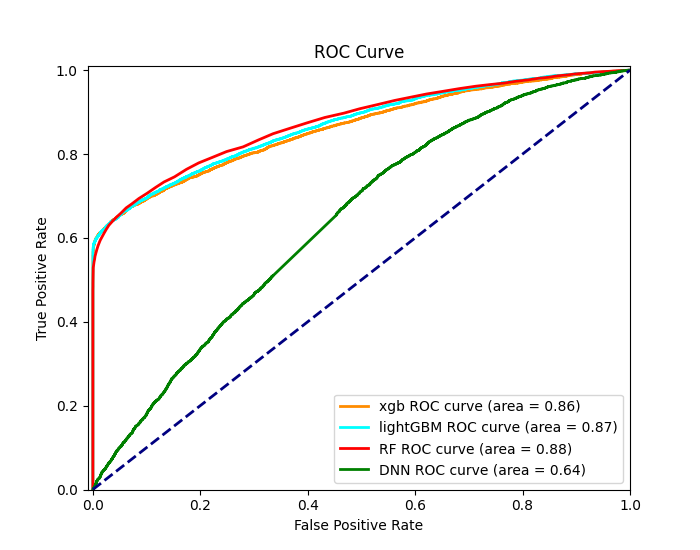
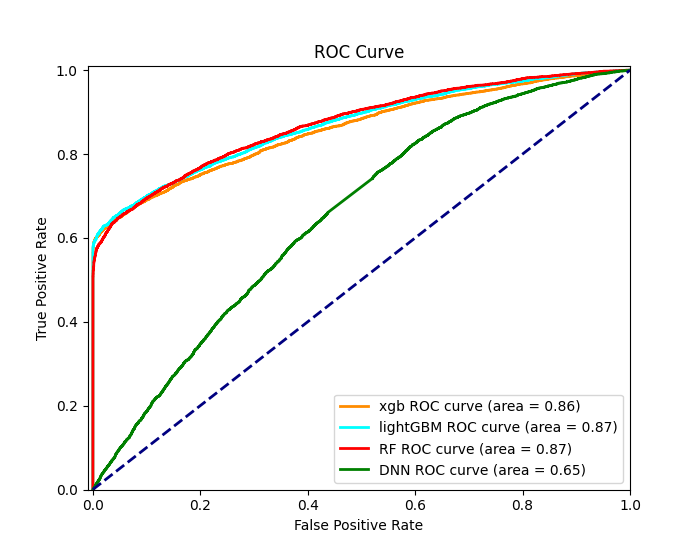
Update parameters

diff --git a/xgboost_churn.py b/xgboost_churn.py
@@ -12,6 +12,8 @@ import model_validation
 import numpy as np
 import pandas as pd
 from sklearn.metrics import roc_curve, auc
+import warnings
+warnings.filterwarnings("ignore")
 
 
 def xgboost_churn(X_train, y_train, X_test, y_test):
@@ -67,36 +69,36 @@ def xgboost_churn(X_train, y_train, X_test, y_test):
     for i in range(20):
         top_20_f.append(real_fea_names[importance_score_list[i][1]])
 
-    # explainer model training
-    params = {"objective": "binary:logistic", 'silent': 1, 'eval_metric': 'auc', 'base_score': 0.5, "lambda": lmda}
-    bst = xgb.train(params, dtrain, best_iteration)
-
-    # calculate xgboost probability
-    tree_lst = xgb_exp.model2table(bst, lmda=lmda)
-    leaf_lsts = bst.predict(dtrain, pred_leaf=True)
-    fea_logit = [[] for _ in range(len(real_fea_names))]
-    for i, leaf_lst in enumerate(leaf_lsts):
-        dist = xgb_exp.logit_contribution(tree_lst, leaf_lst)
-        for idx in range(len(real_fea_names)):
-            if 'f' + str(idx) in dist:
-                fea_logit[idx].append(-dist['f' + str(idx)])
-            else:
-                fea_logit[idx].append(0)
-
-    # explainer plot
-    fig = plt.figure(figsize=(30, 30))
-    fig.suptitle('Feature User Churn')
-    for i in range(len(top_20_f)):
-        fea = top_20_f[i]
-        idx = real_fea_names.index(fea)
-        fea_data = X_df[fea].values
-        ax = fig.add_subplot(5, 4, i + 1)
-        ax.set_xscale('log')
-        ax.set_xlim(min([i for i in fea_data if i > 0]), max(fea_data))
-        ax.scatter(fea_data, fea_logit[idx], s=0.1)
-        ax.hlines(0, min([i for i in fea_data if i > 0]), max(fea_data), linewidth=0.5)
-        ax.set_title(top_20_f[i])
-    plt.subplots_adjust(wspace=0.3, hspace=0.3)
-    plt.savefig('pic/' + name + '_' + str(best_iteration) + '.png', dpi=800)
+    # # explainer model training
+    # params = {"objective": "binary:logistic", 'silent': 1, 'eval_metric': 'auc', 'base_score': 0.5, "lambda": lmda}
+    # bst = xgb.train(params, dtrain, best_iteration)
+    #
+    # # calculate xgboost probability
+    # tree_lst = xgb_exp.model2table(bst, lmda=lmda)
+    # leaf_lsts = bst.predict(dtrain, pred_leaf=True)
+    # fea_logit = [[] for _ in range(len(real_fea_names))]
+    # for i, leaf_lst in enumerate(leaf_lsts):
+    #     dist = xgb_exp.logit_contribution(tree_lst, leaf_lst)
+    #     for idx in range(len(real_fea_names)):
+    #         if 'f' + str(idx) in dist:
+    #             fea_logit[idx].append(-dist['f' + str(idx)])
+    #         else:
+    #             fea_logit[idx].append(0)
+    #
+    # # explainer plot
+    # fig = plt.figure(figsize=(30, 30))
+    # fig.suptitle('Feature User Churn')
+    # for i in range(len(top_20_f)):
+    #     fea = top_20_f[i]
+    #     idx = real_fea_names.index(fea)
+    #     fea_data = X_df[fea].values
+    #     ax = fig.add_subplot(5, 4, i + 1)
+    #     ax.set_xscale('log')
+    #     ax.set_xlim(min([i for i in fea_data if i > 0]), max(fea_data))
+    #     ax.scatter(fea_data, fea_logit[idx], s=0.1)
+    #     ax.hlines(0, min([i for i in fea_data if i > 0]), max(fea_data), linewidth=0.5)
+    #     ax.set_title(top_20_f[i])
+    # plt.subplots_adjust(wspace=0.3, hspace=0.3)
+    # plt.savefig('pic/' + name + '_' + str(best_iteration) + '.png', dpi=800)
 
     return fpr, tpr, roc_auc

diff --git a/main.py b/main.py
@@ -12,6 +12,8 @@ import lightGBM_churn
 import randomForest_churn
 import dnn_churn
 import drawRoc
+import warnings
+warnings.filterwarnings("ignore")
 
 
 def main(path):
@@ -20,22 +22,23 @@ def main(path):
 
     # preprocessing data
     X_train, X_test, y_train, y_test = data_preprocess.preprocess(churn_raw_data)
+    print(X_train.shape)
 
-    # xgboost model training
-    xgb_fpr, xgb_tpr, xgb_roc_auc = xgboost_churn.xgboost_churn(X_train, y_train, X_test, y_test)
-
-    # lightGBM model training
-    gbm_fpr, gbm_tpr, gbm_roc_auc = lightGBM_churn.lightGBM_churn(X_train, y_train, X_test, y_test)
-
-    # randomForest model training
-    rf_fpr, rf_tpr, rf_roc_auc = randomForest_churn.random_forest_churn(X_train, y_train, X_test, y_test)
-
-    # DNN model training
-    dnn_fpr, dnn_tpr, dnn_roc_auc = dnn_churn.dnn_churn(X_train, y_train, X_test, y_test)
-
-    # plot ROC
-    drawRoc.drawRoc([xgb_fpr, xgb_tpr, xgb_roc_auc], [gbm_fpr, gbm_tpr, gbm_roc_auc],
-                    [rf_fpr, rf_tpr, rf_roc_auc], [dnn_fpr, dnn_tpr, dnn_roc_auc])
+    # # xgboost model training
+    # xgb_fpr, xgb_tpr, xgb_roc_auc = xgboost_churn.xgboost_churn(X_train, y_train, X_test, y_test)
+    #
+    # # lightGBM model training
+    # gbm_fpr, gbm_tpr, gbm_roc_auc = lightGBM_churn.lightGBM_churn(X_train, y_train, X_test, y_test)
+    #
+    # # randomForest model training
+    # rf_fpr, rf_tpr, rf_roc_auc = randomForest_churn.random_forest_churn(X_train, y_train, X_test, y_test)
+    #
+    # # DNN model training
+    # dnn_fpr, dnn_tpr, dnn_roc_auc = dnn_churn.dnn_churn(X_train, y_train, X_test, y_test)
+    #
+    # # plot ROC
+    # drawRoc.drawRoc([xgb_fpr, xgb_tpr, xgb_roc_auc], [gbm_fpr, gbm_tpr, gbm_roc_auc],
+    #                 [rf_fpr, rf_tpr, rf_roc_auc], [dnn_fpr, dnn_tpr, dnn_roc_auc])
 
 
 if __name__ == '__main__':

diff --git a/dnn_churn.py b/dnn_churn.py
@@ -50,22 +50,22 @@ def dnn_churn(train_x, train_y, test_x, test_y):
 	fpr, tpr, thresholds = roc_curve(test_y_copy, y_pred_proba[:, 1])
 	roc_auc = auc(fpr, tpr)
 
-	# model validation plot
-	import matplotlib.pyplot as plt
-	train_loss_history = history.history['loss']
-	val_loss_history = history.history['val_loss']
-
-	train_acc_history = history.history['accuracy']
-	val_acc_history = history.history['val_accuracy']
-
+	# # model validation plot
+	# import matplotlib.pyplot as plt
+	# train_loss_history = history.history['loss']
+	# val_loss_history = history.history['val_loss']
+	#
+	# train_acc_history = history.history['accuracy']
+	# val_acc_history = history.history['val_accuracy']
+	#
 	# outputFileFolder = "./data_" + method + "/"
 	# if not os.path.exists(outputFileFolder):
 	#     os.makedirs(outputFileFolder)
-
-	# save data
-	nx = len(train_loss_history)
-	epochs = [i for i in range(len(train_loss_history))]
-
+	#
+	# # save data
+	# nx = len(train_loss_history)
+	# epochs = [i for i in range(len(train_loss_history))]
+	#
 	# loss_vs_epoch = []
 	# loss_vs_epoch.append(epochs)
 	# loss_vs_epoch.append(train_loss_history)

diff --git a/randomForest_churn.py b/randomForest_churn.py
@@ -20,7 +20,7 @@ def random_forest_churn(X_train, y_train, X_test, y_test):
             col_names.append(line)
 
     # model construction
-    estimator_RF = RandomForestClassifier(n_estimators=100, random_state=9, n_jobs=-1)
+    estimator_RF = RandomForestClassifier(n_estimators=116, max_depth=18, max_features=10, random_state=0, n_jobs=-11)
 
     # model training
     model_RF = estimator_RF.fit(X_train, y_train)
